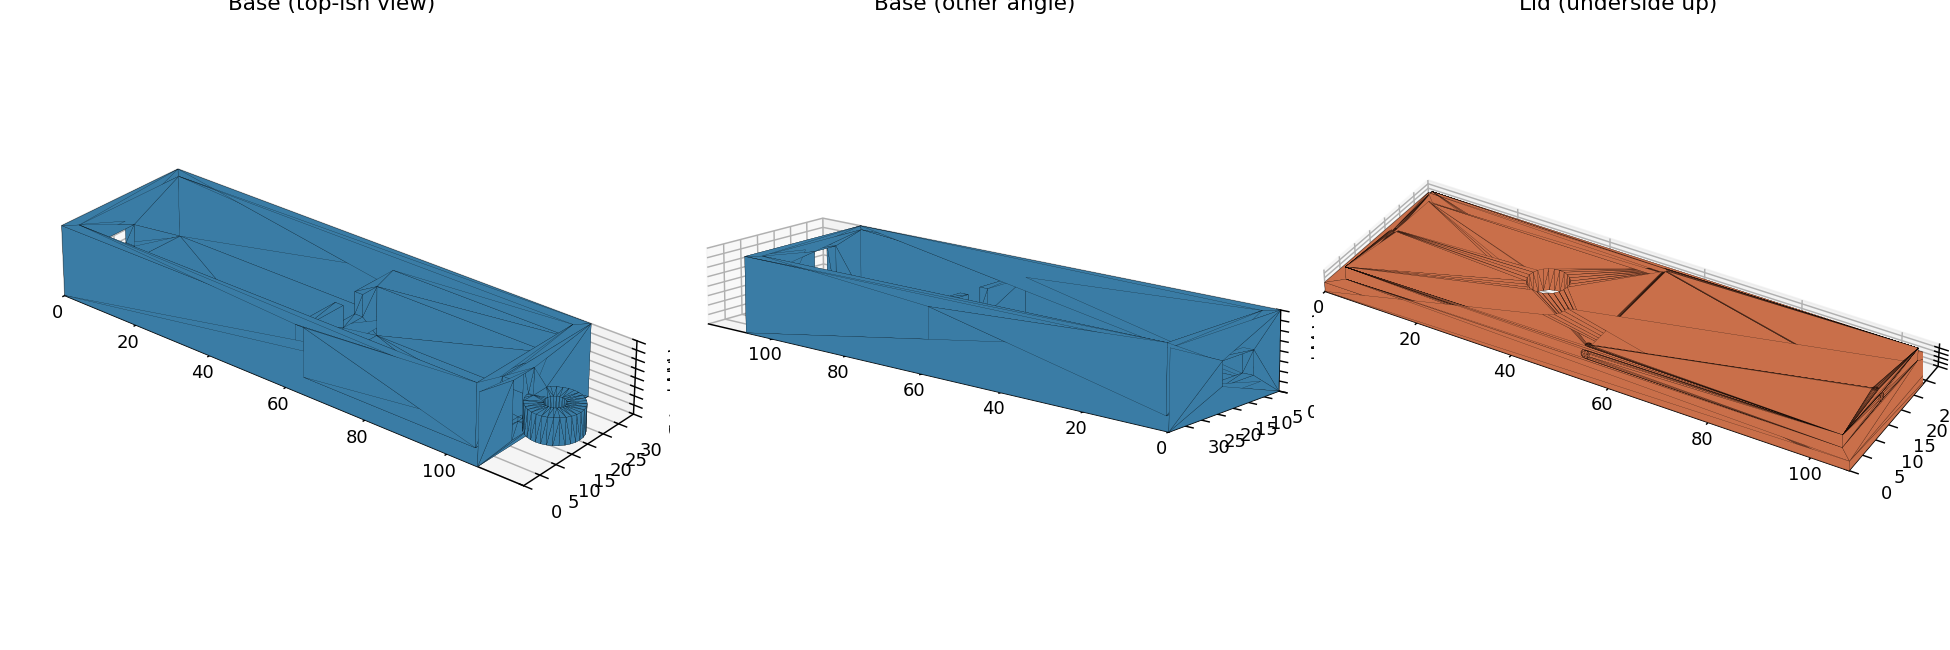
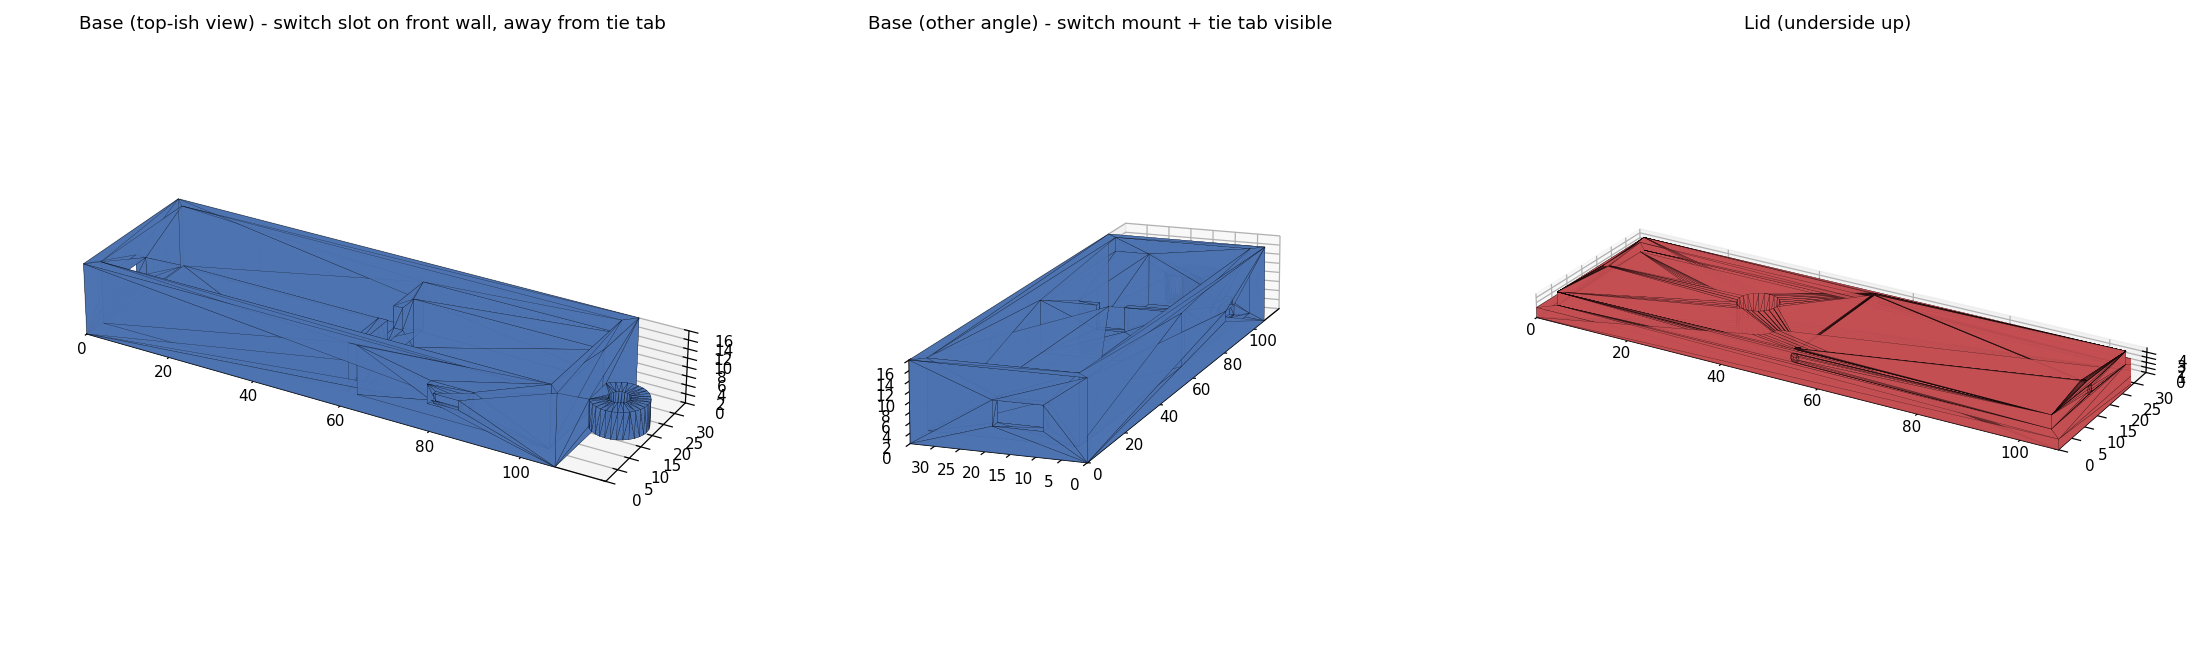
Rework CubeCell case switch mount for SS12D00-G4, move off tie-tab wall
- Removed the old guessed inline-switch cutout from the battery bay's end
  wall, which sat right next to the parachute tie tab and looked like an
  unexplained stray hole.
- Added a keyed switch pocket on the battery bay's front wall instead,
  sized from the SS12D00-G4 slide switch's dimensioned drawing (body
  8.7x3.7x3.7mm, lever 1.5x1.5x4mm): a narrow outer slot for the lever,
  and a wider captured pocket behind it for the body, open to the
  interior for wiring.
- Re-rendered and validated in OpenSCAD (aarch64 build) - both parts
  render as simple/manifold solids, no errors.
- Regenerated the case preview image, updated README/SETUP_README BOM
  and case docs to reference the specific switch part and new mount
  location/geometry.

diff --git a/SETUP_README.md b/SETUP_README.md
@@ -170,7 +170,13 @@ The Feather build solders a spring antenna directly to a pad. CubeCell GPS inste
 
 ![Preview of the CubeCell transmitter case](enclosures/transmitter_case_cubecell_preview.png)
 
-`enclosures/transmitter_case_cubecell.scad` follows the same conventions as the Feather case: snap-lid-and-glue closure, a parachute tie tab, an inline power switch cutout. Two things are different because the hardware is different: there's no verified mounting-hole spec published for this board, so the case relies on a snug pocket fit rather than screw posts (see the comment in the file); and the antenna hole is cut through the **top of the lid** rather than a side wall, sized generously and centered, since a u.FL pigtail is flexible enough to reach an opening almost anywhere above the board — a deliberate choice to avoid guessing a tight side-wall position from an unverified connector location. As always: print the base first, test-fit your actual board and battery before printing the lid.
+`enclosures/transmitter_case_cubecell.scad` follows the same conventions as the Feather case: snap-lid-and-glue closure and a parachute tie tab. Three things are different because the hardware is different:
+
+- **No verified mounting-hole spec** is published for this board, so the case relies on a snug pocket fit rather than screw posts (see the comment in the file).
+- **The antenna hole is cut through the top of the lid** rather than a side wall, sized generously and centered, since a u.FL pigtail is flexible enough to reach an opening almost anywhere above the board — a deliberate choice to avoid guessing a tight side-wall position from an unverified connector location.
+- **The inline power switch mount is sized for a specific part** — an **SS12D00-G4** mini slide switch (body 8.7 x 3.7 x 3.7mm, lever 1.5 x 1.5 x 4mm, from the manufacturer's dimensioned drawing) — instead of a generic guessed cutout. It's a keyed pocket on the battery bay's front wall, centered along that bay's length: a narrow outer slot only the slide lever pokes through, and a wider pocket behind it (open to the battery bay's interior) that captures the switch body, so it can't pull back out through the narrow slot. It's positioned away from the tie tab on purpose — an earlier version of this case put the switch cutout on the tie tab's end wall, which looked like a stray hole and weakened the same wall the tie tab needs to stay solid. If you use a different slide switch, resize `sw_body_l` / `sw_body_w` / `sw_body_h` / `sw_lever_w` at the top of the file to match its drawing.
+
+As always: print the base first, test-fit your actual board, battery, and switch before printing the lid.
 
 ## Packet format (for reference, if you want to extend this later)
 

diff --git a/README.md b/README.md
@@ -68,6 +68,7 @@ If the Feather M0 stack is too tall to fit your airframe, `rocket_transmitter_cu
 | Heltec CubeCell GPS-6502 (HTCC-AB02S) | ~$25.80–25.90 | [heltec.org/project/htcc-ab02s](https://heltec.org/project/htcc-ab02s/) |
 | 3.7V 300mAh LiPo, "302040" size — **check the connector**: this board uses JST-SH 1.25mm pitch, not the JST-PH 2.0mm pitch on the Feather build | ~$7-9 | generic |
 | u.FL/IPEX stub antenna, 902-928MHz, 3dBi, direct-mount (no pigtail needed) | $6.49 | [DigiKey #1173-1023-ND](https://www.digikey.com/en/products/detail/ttm-technologies-inc/66089-0906/3069145) |
+| SS12D00-G4 mini slide switch, spliced inline into the battery lead — a common generic part, search that name on Amazon/AliExpress/eBay; the case's switch pocket is sized to its body/lever dimensions (see `SETUP_README.md`) | ~$3-6 for a pack | generic |
 | Micro USB cable, for flashing | — | any micro USB cable |
 
 `enclosures/transmitter_case_cubecell.scad` is the matching case — same snap-lid-and-glue closure and parachute tie tab as the Feather case, but noticeably shallower since there's no board stack to clear.
